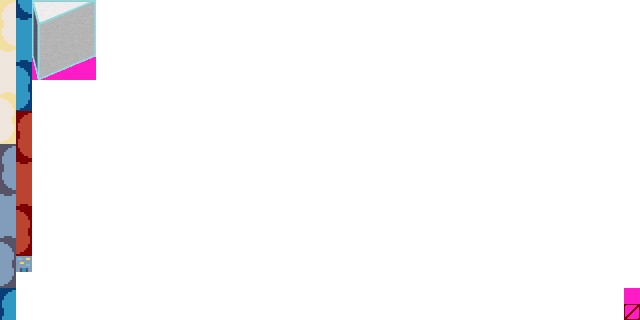
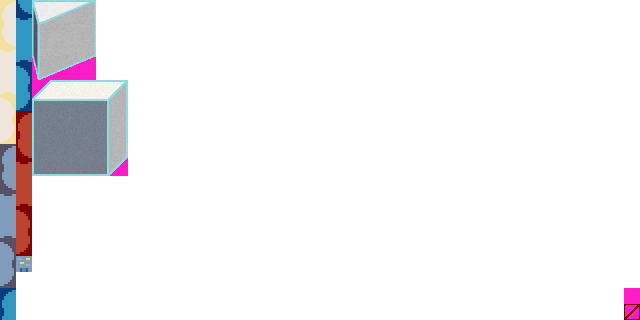
Updated level editor MASSIVELY

Changed region(s): [[0.0312, 0.25, 0.2188, 0.5625]]

diff --git a/mapMaker.c b/mapMaker.c
@@ -98,7 +98,7 @@ bool createNewMap(warperTilemap* tilemap, int tileSize)
     }
 
     quit = false;
-    bool spriteMode = true;
+    bool spriteMode = true, drawLayer1 = true, drawMulti = false;
 
     c2DModel mapModel_layer1, mapModel_layer2;
     c2DModel collisionModel;
@@ -136,7 +136,12 @@ bool createNewMap(warperTilemap* tilemap, int tileSize)
     initCCamera(&inputCamera, (cDoubleRect) {0, 0, global.windowW, global.windowH}, 1.0, 0);
     initCScene(&inputScene, (SDL_Color) {0xFF, 0xFF, 0xFF}, &inputCamera, (cSprite*[1]) {&tileSprite}, 1, (c2DModel*[3]) {&mapModel_layer1, &mapModel_layer2, &collisionModel}, 3, (cResource*[1]) {&shadeResource}, 1, NULL, 0);
 
-    bool drawLayer1 = true;
+
+    int previousIndex = 0;
+
+    const warperMultiProperties multiProperties[] = WARPER_MULTI_PROPS;
+    //building properties
+    //x = x-coord in tiles, y = y-coord in tiles, w = width in tiles, h = height in tiles
 
     while(!quit)
     {
@@ -153,11 +158,105 @@ bool createNewMap(warperTilemap* tilemap, int tileSize)
             {
                 if(e.type == SDL_KEYDOWN)
                 {
+                    if (e.key.keysym.sym == SDLK_1)
+                    {
+                        drawMulti = false;
+                        int temp = previousIndex;  //swap previousIndex and tile id
+                        previousIndex = tileSprite.id;
+                        tileSprite.id = temp;
+                        tileSprite.srcClipRect.x = tileSprite.id / 20 * tileSize / 2;
+                        tileSprite.srcClipRect.y = tileSprite.id % 20 * tileSize / 2;
+                        tileSprite.srcClipRect.w = tileSize / 2;
+                        tileSprite.srcClipRect.h = tileSize / 2;
+                        tileSprite.drawRect.w = tileSize;
+                        tileSprite.drawRect.h = tileSize;
+                    }
+
+                    if (e.key.keysym.sym == SDLK_2)
+                    {
+                        //multi (building) placing
+                        drawMulti = true;
+                        int temp = previousIndex;  //swap previousIndex and tile id
+                        previousIndex = tileSprite.id;
+                        tileSprite.id = temp;
+                        tileSprite.srcClipRect.x = multiProperties[tileSprite.id].tileRect.x * tileSize / 2;
+                        tileSprite.srcClipRect.y = multiProperties[tileSprite.id].tileRect.y * tileSize / 2;
+                        tileSprite.srcClipRect.w = multiProperties[tileSprite.id].tileRect.w * tileSize / 2;
+                        tileSprite.srcClipRect.h = multiProperties[tileSprite.id].tileRect.h * tileSize / 2;
+                        tileSprite.drawRect.w = multiProperties[tileSprite.id].tileRect.w * tileSize;
+                        tileSprite.drawRect.h = multiProperties[tileSprite.id].tileRect.h * tileSize;
+                    }
+
                     if (e.key.keysym.sym == SDLK_q && tileSprite.id > 0)
+                    {
                         tileSprite.id--;
+                        if (!drawMulti)
+                        {
+                            tileSprite.srcClipRect.x = ((spriteMode) ? (tileSprite.id / 20) : 39) * tilemap->tileSize / 2;
+                            tileSprite.srcClipRect.y = ((spriteMode) ? (tileSprite.id % 20) : 19) * tilemap->tileSize / 2;
+                            tileSprite.srcClipRect.w = tileSize / 2;
+                            tileSprite.srcClipRect.h = tileSize / 2;
+                            tileSprite.drawRect.w = tileSize;
+                            tileSprite.drawRect.h = tileSize;
+                        }
+                        else
+                        {
+                            tileSprite.srcClipRect.x = multiProperties[tileSprite.id].tileRect.x * tileSize / 2;
+                            tileSprite.srcClipRect.y = multiProperties[tileSprite.id].tileRect.y * tileSize / 2;
+                            tileSprite.srcClipRect.w = multiProperties[tileSprite.id].tileRect.w * tileSize / 2;
+                            tileSprite.srcClipRect.h = multiProperties[tileSprite.id].tileRect.h * tileSize / 2;
+                            tileSprite.drawRect.w = multiProperties[tileSprite.id].tileRect.w * tileSize;
+                            tileSprite.drawRect.h = multiProperties[tileSprite.id].tileRect.h * tileSize;
+                        }
+                    }
 
                     if (e.key.keysym.sym == SDLK_e)
+                    {
                         tileSprite.id++;
+                        if (!drawMulti)
+                        {
+                            tileSprite.srcClipRect.x = ((spriteMode) ? (tileSprite.id / 20) : 39) * tilemap->tileSize / 2;
+                            tileSprite.srcClipRect.y = ((spriteMode) ? (tileSprite.id % 20) : 19) * tilemap->tileSize / 2;
+                            tileSprite.srcClipRect.w = tileSize / 2;
+                            tileSprite.srcClipRect.h = tileSize / 2;
+                            tileSprite.drawRect.w = tileSize;
+                            tileSprite.drawRect.h = tileSize;
+                        }
+                        else
+                        {
+                            tileSprite.srcClipRect.x = multiProperties[tileSprite.id].tileRect.x * tileSize / 2;
+                            tileSprite.srcClipRect.y = multiProperties[tileSprite.id].tileRect.y * tileSize / 2;
+                            tileSprite.srcClipRect.w = multiProperties[tileSprite.id].tileRect.w * tileSize / 2;
+                            tileSprite.srcClipRect.h = multiProperties[tileSprite.id].tileRect.h * tileSize / 2;
+                            tileSprite.drawRect.w = multiProperties[tileSprite.id].tileRect.w * tileSize;
+                            tileSprite.drawRect.h = multiProperties[tileSprite.id].tileRect.h * tileSize;
+                        }
+                    }
+
+                    if (drawMulti && multiProperties[tileSprite.id].resizesW && e.key.keysym.sym == SDLK_MINUS)
+                    {
+                        //x-
+                        if (tileSprite.drawRect.w > multiProperties[tileSprite.id].tileRect.w * tileSize)
+                            tileSprite.drawRect.w -= tileSize;
+                    }
+
+                    if (drawMulti && multiProperties[tileSprite.id].resizesW && e.key.keysym.sym == SDLK_EQUALS)
+                    {
+                        //x+
+                        tileSprite.drawRect.w += tileSize;
+                    }
+
+                    if (drawMulti && multiProperties[tileSprite.id].resizesH && e.key.keysym.sym == SDLK_LEFTBRACKET)
+                    {
+                        if (tileSprite.drawRect.h > multiProperties[tileSprite.id].tileRect.h * tileSize)
+                            tileSprite.drawRect.h -= tileSize;
+                    }
+
+                    if (drawMulti && multiProperties[tileSprite.id].resizesH && e.key.keysym.sym == SDLK_RIGHTBRACKET)
+                    {
+                        //y+
+                        tileSprite.drawRect.h += tileSize;
+                    }
 
                     if (e.key.keysym.sym == SDLK_w)
                         inputCamera.rect.y -= 6;
@@ -174,6 +273,15 @@ bool createNewMap(warperTilemap* tilemap, int tileSize)
                     if (e.key.keysym.sym == SDLK_LSHIFT)
                     {
                         spriteMode = !spriteMode;
+
+                        if (drawMulti)
+                        {
+                            int temp = previousIndex;  //swap previousIndex and tile id
+                            previousIndex = tileSprite.id;
+                            tileSprite.id = temp;
+                        }
+                        drawMulti = false;
+
                         collisionModel.renderLayer = spriteMode ? 0 : 4;
                     }
 
@@ -188,9 +296,6 @@ bool createNewMap(warperTilemap* tilemap, int tileSize)
                         else
                             shadeResource.renderLayer = 5;
                     }
-
-                    tileSprite.srcClipRect.x = ((spriteMode) ? (tileSprite.id / 20) : 39) * tilemap->tileSize / 2;
-                    tileSprite.srcClipRect.y = ((spriteMode) ? (tileSprite.id % 20) : 19) * tilemap->tileSize / 2;
                 }
                 if ((SDL_GetMouseState(NULL, NULL) & SDL_BUTTON(SDL_BUTTON_LEFT) || SDL_GetMouseState(NULL, NULL) & SDL_BUTTON(SDL_BUTTON_RIGHT)) && e.button.button != 0)
                 {
@@ -199,19 +304,50 @@ bool createNewMap(warperTilemap* tilemap, int tileSize)
                     {
                         if (spriteMode)
                         {
-                            if (drawLayer1)  //shift draw to layer 2
+                            int** layer = tilemap->spritemap_layer1;
+                            c2DModel* layerModel = &mapModel_layer1;
+                            if (!drawLayer1)
                             {
-                                tilemap->spritemap_layer1[tileX][tileY] = (e.button.button == SDL_BUTTON_LEFT) ? tileSprite.id : 0;
-                                mapModel_layer1.sprites[tileX * tilemap->height + tileY].id = tilemap->spritemap_layer1[tileX][tileY];
-                                mapModel_layer1.sprites[tileX * tilemap->height + tileY].srcClipRect.x = (tilemap->spritemap_layer1[tileX][tileY] / 20) * tilemap->tileSize / 2;
-                                mapModel_layer1.sprites[tileX * tilemap->height + tileY].srcClipRect.y = (tilemap->spritemap_layer1[tileX][tileY] % 20) * tilemap->tileSize / 2;
+                                layer = tilemap->spritemap_layer2;
+                                layerModel = &mapModel_layer2;
+                            }
+
+                            if (!drawMulti)  //shift draw to layer 2
+                            {
+                                //draw single
+                                layer[tileX][tileY] = (e.button.button == SDL_BUTTON_LEFT) ? tileSprite.id : 0;
+                                layerModel->sprites[tileX * tilemap->height + tileY].id = layer[tileX][tileY];
+                                layerModel->sprites[tileX * tilemap->height + tileY].srcClipRect.x = (layer[tileX][tileY] / 20) * tilemap->tileSize / 2;
+                                layerModel->sprites[tileX * tilemap->height + tileY].srcClipRect.y = (layer[tileX][tileY] % 20) * tilemap->tileSize / 2;
                             }
                             else
                             {
-                                tilemap->spritemap_layer2[tileX][tileY] = (e.button.button == SDL_BUTTON_LEFT) ? tileSprite.id : 798;
-                                mapModel_layer2.sprites[tileX * tilemap->height + tileY].id = tilemap->spritemap_layer2[tileX][tileY];
-                                mapModel_layer2.sprites[tileX * tilemap->height + tileY].srcClipRect.x = (tilemap->spritemap_layer2[tileX][tileY] / 20) * tilemap->tileSize / 2;
-                                mapModel_layer2.sprites[tileX * tilemap->height + tileY].srcClipRect.y = (tilemap->spritemap_layer2[tileX][tileY] % 20) * tilemap->tileSize / 2;
+                                //draw multi
+                                int difW = tileSprite.drawRect.w / tileSize - multiProperties[tileSprite.id].tileRect.w,
+                                    difH = tileSprite.drawRect.h / tileSize - multiProperties[tileSprite.id].tileRect.h;
+
+                                int xOffset = 0;
+                                for(int x = tileX; x < tileX + tileSprite.drawRect.w / tileSize; x++)
+                                {
+                                    if (difW > 0 && x - tileX > multiProperties[tileSprite.id].colToRepeat && x - tileX <= multiProperties[tileSprite.id].colToRepeat + difW)
+                                        xOffset++;
+
+                                    int yOffset = 0;
+                                    for(int y = tileY; y < tileY + tileSprite.drawRect.h / tileSize; y++)
+                                    {
+                                        if (difH > 0 && y - tileY > multiProperties[tileSprite.id].rowToRepeat && y - tileY <= multiProperties[tileSprite.id].rowToRepeat + difH)
+                                            yOffset++;
+
+                                        int drawY = multiProperties[tileSprite.id].tileRect.y + y - tileY - yOffset,
+                                            drawX = multiProperties[tileSprite.id].tileRect.x + x - tileX - xOffset;
+
+
+                                        layer[x][y] = drawY % 20 + drawX * 20;
+                                        layerModel->sprites[x * tilemap->height + y].id = layer[x][y];
+                                        layerModel->sprites[x * tilemap->height + y].srcClipRect.x = (layer[x][y] / 20) * tilemap->tileSize / 2;
+                                        layerModel->sprites[x * tilemap->height + y].srcClipRect.y = (layer[x][y] % 20) * tilemap->tileSize / 2;
+                                    }
+                                }
                             }
                         }
                         else

diff --git a/mapMaker.h b/mapMaker.h
@@ -8,9 +8,21 @@ typedef struct _warperFilter
     SDL_Color filterColor;
 } warperFilter;
 
+typedef struct _warperMultiProperties
+{
+    SDL_Rect tileRect;
+    bool resizesW;
+    int colToRepeat;
+    bool resizesH;
+    int rowToRepeat;
+} warperMultiProperties;
+
 bool createNewMap(warperTilemap* tilemap, int tileSize);
 warperFilter initWarperFilter(int r, int g, int b, int a);
 void drawWarperFilter(void* subclass, cCamera camera);
 void destroyWarperFilter(void* subclass);
+
+#define WARPER_MULTI_PROPS { (warperMultiProperties) {.tileRect = (SDL_Rect) {2, 0, 4, 5}, .resizesW = false, .colToRepeat = -1, .resizesH = true, .rowToRepeat = 2}, \
+                             (warperMultiProperties) {.tileRect = (SDL_Rect) {2, 5, 6, 6}, .resizesW = true, .colToRepeat = 2, .resizesH = true, .rowToRepeat = 2} };
 
 #endif // MAPMAKER_H_INCLUDED

diff --git a/main.c b/main.c
@@ -251,7 +251,7 @@ int gameLoop(warperTilemap tilemap)
     loadTilemapModels(tilemap, &mapModel_layer1, &mapModel_layer2);
 
     initCSprite(&testPlayerSprite, NULL, "assets/characterTilesheet.png", 0,
-                    (cDoubleRect) {tilemap.tileSize, tilemap.tileSize, 4 * tilemap.tileSize, 2 * tilemap.tileSize},
+                    (cDoubleRect) {tilemap.tileSize, tilemap.tileSize, 2 * tilemap.tileSize, 2 * tilemap.tileSize},
                     (cDoubleRect) {0, 0, tilemap.tileSize / 2, tilemap.tileSize / 2},
                     NULL, 1.0, SDL_FLIP_NONE, 0, false, (void*) &playerTeam, 4);
     initCSprite(&testEnemySprite, NULL, "assets/characterTilesheet.png", 1,
